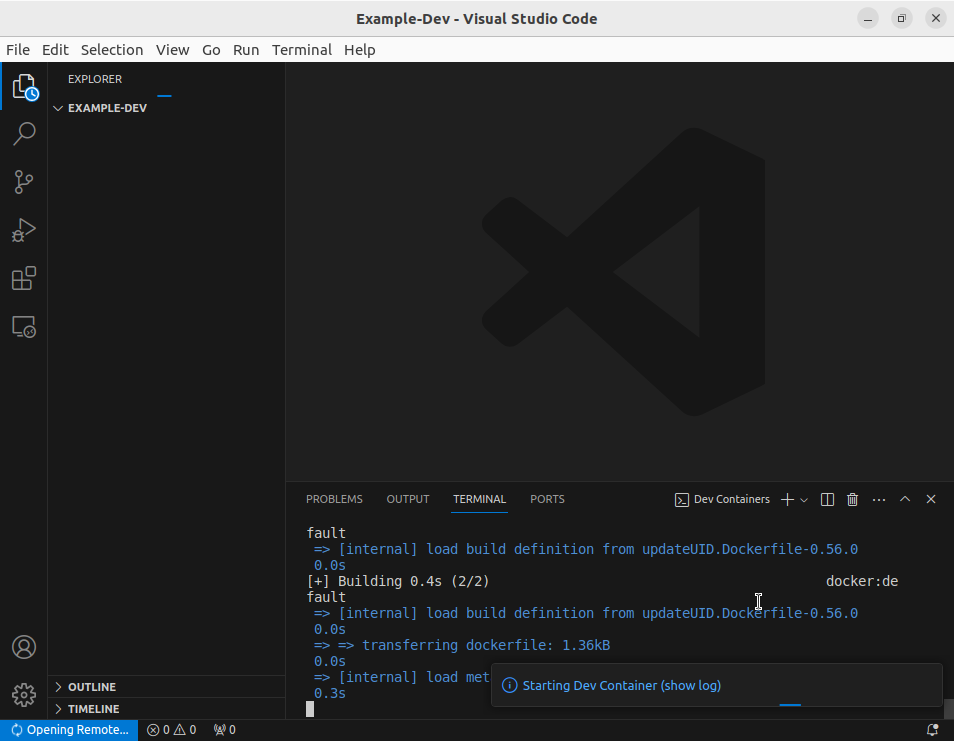
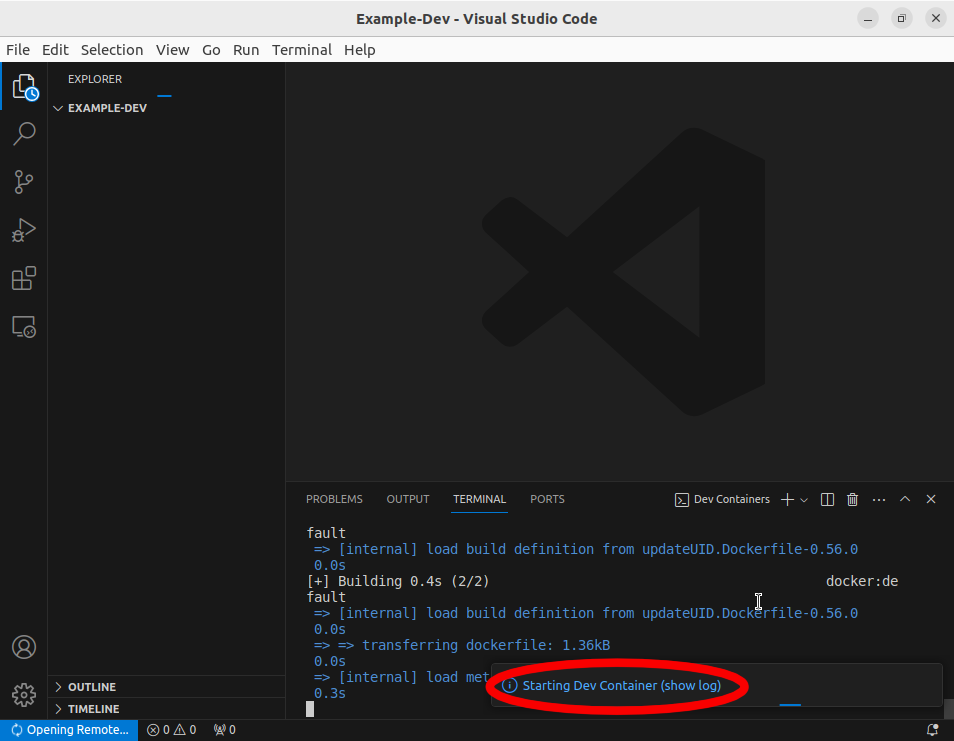
Final updates made to `Doc-Linux Setup.md` for clarity purposes.

Changed region(s): [[0.4864, 0.8691, 0.7904, 0.9622]]

diff --git a/documentation/Doc-Linux Setup.md b/documentation/Doc-Linux Setup.md
@@ -8,7 +8,7 @@ Header over to the [Visual Studio Code](https://code.visualstudio.com/) website 
 
 - For Ubuntu and other Debian based systems choose the .deb file and install with 
 
-		sudo apt install ./path/to/file/location/code_1.XX.X-XXXX_amd64.deb
+		sudo apt install \<path to download location of the deb file>/code_1.XX.X-XXXX_amd64.deb
 
 	- *Hint: While typing hitting tab will tell bash to try and autocomplete what you were typing. This is very useful in this step when typing the filepath to the deb.*
 	- *This also works when typing `code_1.XX.X-XXXX_amd64.deb`. If you type in `code` and hit tab, bash will fill in the rest of the name for you!*
@@ -29,7 +29,7 @@ If the version of Python reported is anything but `Python 3.11.X` follow the ste
 Otherwise, you can jump to [Installing PIP (if missing)](#installing-pip-if-missing)
 
 
-## Using Python 3.11 using Dev Containers
+## Working with Python 3.11 via Dev Containers
 
 A method to use Python 3.11 on a system with a different version is to the Dev Containers Extention for Visual Studio Code. Dev Containers utilizes Docker to run a separate Linux system inside of your current distribution. By selecting the proper image you can use a Linux system that comes with Python 3.11 installed for development. Best of all, Dev Containers will appear mostly seamless while using Visual Studio Code and you will be able to use all of the normal Python debugging features.
 
@@ -42,7 +42,7 @@ docker help
 
 If running this command results in a messages stating `Command docker not found`, follow the instructions below. Otherwise, you can skip to [Allow Docker Access from a non-root User](#allow-docker-access-from-a-non-root-user).
 
-Navigate to the [Install Docker Engine](https://docs.docker.com/engine/install/) page. You do not want to use the linke that says `Docker Desktop for XXX`, instead click on your Linux distribution. Then, follow the listed instructions to install Docker. 
+Navigate to the [Install Docker Engine](https://docs.docker.com/engine/install/#supported-platforms) page. You do not want to use the link that says `Docker Desktop for XXX`, instead click on your Linux distribution in the [Supported platforms](https://docs.docker.com/engine/install/#supported-platforms) table. Then, follow the listed instructions to install Docker. Follow whichever option **does not** install Docker desktop.
 
 ### Allow Docker Access from a non-root User
 
@@ -83,10 +83,10 @@ The following steps will guide you on creating a Django project within a Python 
 	![Skipping adding any features to the container](https://github.com/C0atRack/GE02-Collab/blob/main/images/Doc%20Linux%20DevContainer/Doc-Linux%20DevContainer%2008%20Skip%20Select%20Features.png)
 1. Dev Containers has now created the `devcontainer.json` file within a folder called `.devcontainer`. A prompt will appear offering to reopen the folder in Dev Container. Click on the button that says **Reopen in container**. Visual Studio Code will reload.
 	![Clicking reopen in container](https://github.com/C0atRack/GE02-Collab/blob/main/images/Doc%20Linux%20DevContainer/Doc-Linux%20DevContainer%2009%20Reopen%20in%20Container.png)
-1. Open Visual Studio Code reopens, wait for Dev Containers to finish starting up the Docker container. It will take a while to start as it has to pull many Docker images and install extensions to allow for remote debugging.
+1. Open Visual Studio Code reopens, wait for Dev Containers to finish starting up the Docker container. It will take a while to start as it has to pull many Docker images and install extensions to allow for remote debugging. While it is opening, click the blue text that says `Starting Dev Container (show log)`. This comes in handy for the next step.
 	![Dev Container waiting for Docker](https://github.com/C0atRack/GE02-Collab/blob/main/images/Doc%20Linux%20DevContainer/Doc-Linux%20DevContainer%2010%20Dev%20Container%20Starting.png)
 	![Dev Container waiting for Docker](https://github.com/C0atRack/GE02-Collab/blob/main/images/Doc%20Linux%20DevContainer/Doc-Linux%20DevContainer%2011%20Dev%20Container%20Started.png)
-1. Once you windows looks like the picture below, click on the **+**/**New Terminal Button** at the top of the terminal windows. You will be dropped into a bash shell inside of the container.
+1. Once you windows looks like the picture below, click on the **+**/**New Terminal Button** at the top of the terminal window. You can also do this by clicking the **Terminal** tab at the top of the screen and click **New Terminal**. You will be dropped into a bash shell inside of the container.
 	![Open new bash shell](https://github.com/C0atRack/GE02-Collab/blob/main/images/Doc%20Linux%20DevContainer/Doc-Linux%20DevContainer%2012%20Open%20New%20Shell.png)
 	![Open new bash shell](https://github.com/C0atRack/GE02-Collab/blob/main/images/Doc%20Linux%20DevContainer/Doc-Linux%20DevContainer%2013%20New%20Shell.png)
 1. (Optionally) You can now check the version of Python using `python3 --version`
